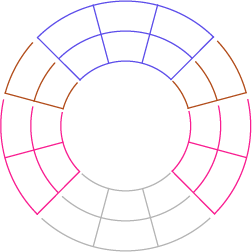
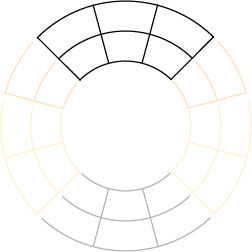
Added grid splitters and changed circle image

diff --git a/InteractiveMusicScales/MainWindow.xaml b/InteractiveMusicScales/MainWindow.xaml
@@ -100,19 +100,32 @@
     <!--===================================Window Layout===================================-->
     <Grid>
         <Grid.ColumnDefinitions>
-            <ColumnDefinition Width="Auto" MinWidth="100"/>
+            <ColumnDefinition Width="Auto" MaxWidth="300"/>
+            <ColumnDefinition Width="5"/><!--Splitter-->
             <ColumnDefinition Width="*"/>
-            <ColumnDefinition Width="256"/>
+            <ColumnDefinition Width="5"/><!--Splitter-->
+            <ColumnDefinition Width="265"/>
         </Grid.ColumnDefinitions>
 
         <Grid.RowDefinitions>
             <RowDefinition/>
-            <RowDefinition Height="276"/>
+            <RowDefinition Height="5"/><!--Splitter-->
+            <RowDefinition Height="285"/>
         </Grid.RowDefinitions>
+
+        <GridSplitter ResizeDirection="Columns" Grid.Column="1" Grid.Row="0" Grid.RowSpan="3"
+                      HorizontalAlignment="Stretch" VerticalAlignment="Stretch"/>
+
+        <GridSplitter ResizeDirection="Rows" Grid.Column="2" Grid.ColumnSpan="3" Grid.Row="1"
+                      HorizontalAlignment="Stretch" VerticalAlignment="Stretch"/>
+
+        <GridSplitter ResizeDirection="Columns" Grid.Column="3" Grid.Row="2"
+                      HorizontalAlignment="Stretch" VerticalAlignment="Stretch"/>
+
 
 
         <!--===================================Scales Circle===================================-->
-        <DockPanel Grid.Column="2" Grid.Row="1" LastChildFill="True" Background="{StaticResource Background}">
+        <DockPanel Grid.Column="4" Grid.Row="2" LastChildFill="True" Background="{StaticResource Background}">
             <DockPanel.Resources>
                 <Style TargetType="RadioButton">
                     <Setter Property="Margin" Value="15,2,5,2"/>
@@ -120,7 +133,7 @@
 
                 <Style TargetType="Button">
                     <Setter Property="Margin" Value="5,0,0,0"/>
-                    <Setter Property="Padding" Value="2,0,2,0"/>
+                    <Setter Property="Padding" Value="7,0,7,0"/>
                 </Style>
 
                 <ImageBrush x:Key="Circle" ImageSource="Images\circle.png"/>
@@ -138,11 +151,12 @@
             </StackPanel>
 
             <!--Circle itself-->
-            <Canvas Background="{StaticResource Circle}" Margin="5">
+            <Canvas Margin="5">
                 <Canvas.Resources>
                     <Style TargetType="i:ScaleButton" BasedOn="{StaticResource MainScaleButtonStyle}"/>
                 </Canvas.Resources>
 
+                <Image Source="Images\circle.png" Height="256" Width="256"/>
 
                 <!--Outer circle-->
                 
@@ -152,7 +166,7 @@
 
 
         <!--===================================Scales selector===================================-->
-        <DockPanel Grid.Row="0" Grid.RowSpan="2" Grid.Column="0" LastChildFill="True" Background="{StaticResource MenuColor}">
+        <DockPanel Grid.Row="0" Grid.RowSpan="3" Grid.Column="0" LastChildFill="True" Background="{StaticResource MenuColor}">
             
             <!--Menu on the top-->
             <StackPanel DockPanel.Dock="Top" Orientation="Horizontal" Background="{StaticResource MenuColor}">
@@ -176,7 +190,7 @@
                     <Style TargetType="i:ScaleButton" BasedOn="{StaticResource MainScaleButtonStyle}"/>
                 </ScrollViewer.Resources>
                 
-                <ItemsControl ItemsSource="{Binding ScalesToShow, Converter={StaticResource ScalesToButtons}}" BorderBrush="Black" BorderThickness="0.5">
+                <ItemsControl ItemsSource="{Binding ScalesToShow, Converter={StaticResource ScalesToButtons}}">
                     <ItemsControl.ItemsPanel>
                         <ItemsPanelTemplate>
                             <StackPanel Orientation="Vertical"/>
@@ -191,7 +205,7 @@
 
 
         <!--===================================Fretboard===================================-->
-        <DockPanel Grid.Column="1" Grid.ColumnSpan="2" Grid.Row="0" LastChildFill="True" Background="{StaticResource Background}">
+        <DockPanel Grid.Column="2" Grid.ColumnSpan="3" Grid.Row="0" LastChildFill="True" Background="{StaticResource Background}">
             
             <!--Menu on the left-->
             <DockPanel DockPanel.Dock="Left" LastChildFill="False" Background="{StaticResource MenuColor}">
@@ -752,7 +766,7 @@
 
         <!--===================================Pianoroll===================================-->
 
-        <DockPanel Grid.Column="1" Grid.Row="1" LastChildFill="True" Background="{StaticResource Background}">
+        <DockPanel Grid.Column="2" Grid.Row="3" LastChildFill="True" Background="{StaticResource Background}">
             <DockPanel.Resources>
                 <!--Radiobutton Style-->
                 <Style TargetType="RadioButton">
